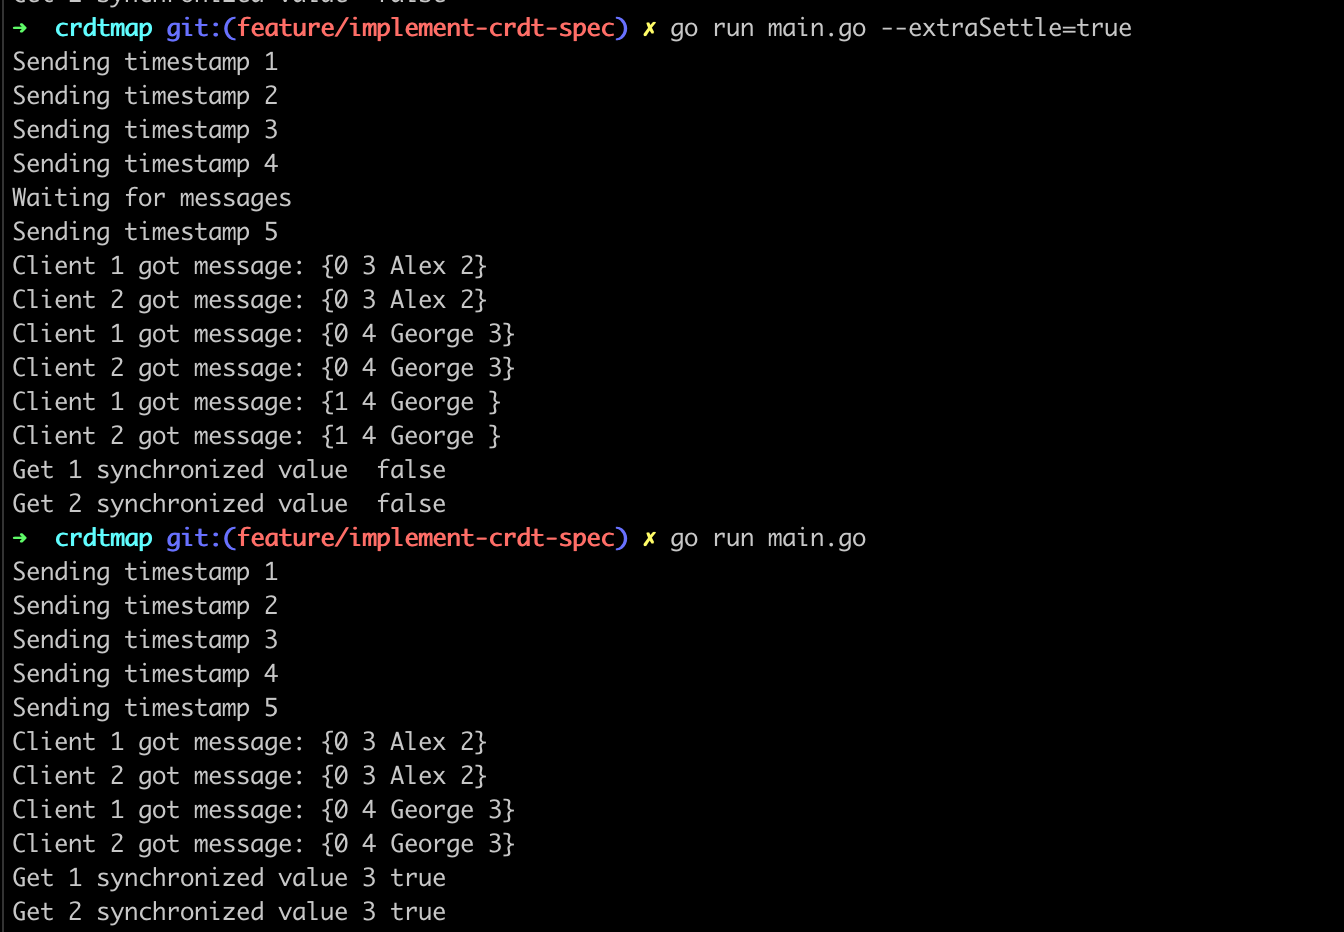
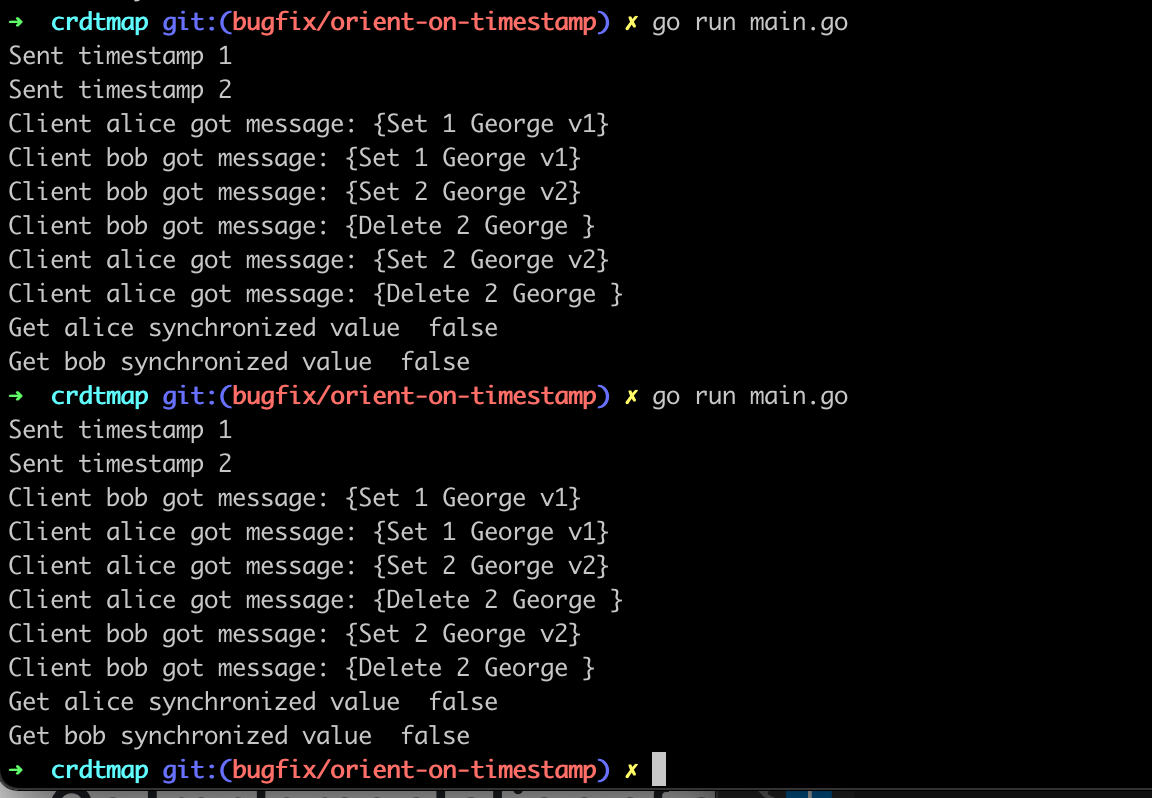
Updated API to take a timestamp when deleting.
- Added a test that demonstrates the eventually consistent property

Changed region(s): [[0.0, 0.0, 0.8438, 1.0], [0.6562, 0.9624, 0.75, 1.0]]

diff --git a/implementations/crdtmap/crdt/crdt.go b/implementations/crdtmap/crdt/crdt.go
@@ -15,11 +15,11 @@ type tValue struct {
 	v Value
 }
 
-type Verb int
+type Verb string
 
 const (
-	Set Verb = iota
-	Delete
+	Set    Verb = "Set"
+	Delete Verb = "Delete"
 )
 
 type broadcastRequest struct {
@@ -33,15 +33,15 @@ type mapCRDT struct {
 	values     map[Key][]tValue
 	timestamps chan Timestamp
 	publisher  *broker.Broker
-	clientId   int
+	clientId   string
 }
 
-func NewMapCRDT(lamportClock chan Timestamp, b *broker.Broker) (*mapCRDT, func()) {
+func NewMapCRDT(name string, lamportClock chan Timestamp, b *broker.Broker) (*mapCRDT, func()) {
 	m := &mapCRDT{
 		values:     make(map[Key][]tValue),
 		timestamps: lamportClock,
 		publisher:  b,
-		clientId:   int(<-lamportClock),
+		clientId:   name,
 	}
 	return m, func() {
 		m.broadcastListen(m.publisher.Subscribe())
@@ -52,7 +52,7 @@ func NewMapCRDT(lamportClock chan Timestamp, b *broker.Broker) (*mapCRDT, func()
 func (self *mapCRDT) broadcastListen(conn chan interface{}) {
 	for {
 		msg := <-conn
-		fmt.Printf("Client %d got message: %v\n", self.clientId, msg)
+		fmt.Printf("[%s]: %v\n", self.clientId, msg)
 
 		switch m := msg.(type) {
 		case broadcastRequest:
@@ -63,7 +63,7 @@ func (self *mapCRDT) broadcastListen(conn chan interface{}) {
 				self.deliveringDeleteByCausalBroadcast(m.t, m.k)
 			}
 		default:
-			fmt.Printf("Client %d got unknown message: %v\n", self.clientId, msg)
+			fmt.Printf("Client %s got unknown message: %v\n", self.clientId, msg)
 		}
 	}
 }
@@ -73,25 +73,27 @@ func (self *mapCRDT) broadcast(verb Verb, t Timestamp, k Key, v Value) {
 	self.publisher.Publish(request)
 }
 
-func (self *mapCRDT) RequestToReadValue(k Key) (Value, bool) {
-	entries := self.values[k]
-	if len(entries) > 0 {
-		return entries[len(entries)-1].v, true
+func (self *mapCRDT) RequestToReadValue(k Key) (Value, Timestamp, bool) {
+	entries, ok := self.values[k]
+	if ok {
+		return entries[len(entries)-1].v, entries[len(entries)-1].t, ok
 	}
-	return "", false
+	return "", -1, ok
 }
 
-func (self *mapCRDT) RequestToSetKey(k Key, v Value) {
+func (self *mapCRDT) RequestToSetKey(k Key, v Value) Timestamp {
 	t := <-self.timestamps
 	self.broadcast(Set, t, k, v)
+	return t
 }
 
-func forAllEntryYoungerThan(t Timestamp, previous []tValue) bool {
-	for _, prime := range previous {
-		if prime.t < t {
-			continue
+//isNewerThanAll implements the last write wins semantics. If the current timestamp is
+//greater than all current values, permit the write.
+func isNewerThanAll(t Timestamp, values []tValue) bool {
+	for _, v := range values {
+		if v.t > t {
+			return false
 		}
-		return false
 	}
 	return true
 }
@@ -99,22 +101,13 @@ func forAllEntryYoungerThan(t Timestamp, previous []tValue) bool {
 func (self *mapCRDT) deliveringSetByCausalBroadcast(t Timestamp, k Key, v Value) {
 	previous, ok := self.values[k]
 
-	if ok || forAllEntryYoungerThan(t, previous) {
+	if !ok || isNewerThanAll(t, previous) {
 		self.values[k] = []tValue{{t, v}}
 	}
 }
 
-func (self *mapCRDT) RequestToDeleteKey(k Key) {
-	entries, ok := self.values[k]
-	if ok { //This line is suspicious.
-		//I may have misunderstood the specification.
-		//Only delete if you have that key.
-		//It's possible the key is still propagating.
-		//In which case, we won't forward the delete.
-		for _, e := range entries {
-			self.broadcast(Delete, e.t, k, "")
-		}
-	}
+func (self *mapCRDT) RequestToDeleteKey(t Timestamp, k Key) {
+	self.broadcast(Delete, t, k, "")
 }
 
 func (self *mapCRDT) findIdxByTimestamp(t Timestamp, k Key) int {
@@ -136,6 +129,11 @@ func removeIndex(s []tValue, index int) []tValue {
 func (self *mapCRDT) deliveringDeleteByCausalBroadcast(t Timestamp, k Key) {
 	idx := self.findIdxByTimestamp(t, k)
 	if idx != -1 {
-		self.values[k] = removeIndex(self.values[k], idx)
+		newValues := removeIndex(self.values[k], idx)
+		if len(newValues) > 0 {
+			self.values[k] = newValues
+		} else {
+			delete(self.values, k)
+		}
 	}
 }

diff --git a/implementations/crdtmap/main.go b/implementations/crdtmap/main.go
@@ -16,14 +16,14 @@ var (
 func lamportClock(chan crdt.Timestamp) {
 	globalClock := 1
 	for {
-		fmt.Printf("Sending timestamp %d\n", globalClock)
 		clock <- crdt.Timestamp(globalClock)
+		fmt.Printf("Sent timestamp %d\n", globalClock)
 		globalClock = globalClock + 1
 	}
 }
 
 func main() {
-	extraSettle := flag.Bool("extraSettle", false, "Allow extra time between set and delete for messages to synchronize.")
+
 	flag.Parse()
 	// Create and start a broker:
 	b := broker.NewBroker()
@@ -32,35 +32,23 @@ func main() {
 	//Start the clock source
 	go lamportClock(clock)
 
-	m1, m1Listen := crdt.NewMapCRDT(clock, b)
-	m2, m2Listen := crdt.NewMapCRDT(clock, b)
-	//m3, m3Listen := crdt.NewMapCRDT(clock, b)
-	//m4, m4Listen := crdt.NewMapCRDT(clock, b)
+	alice, m1Listen := crdt.NewMapCRDT("alice", clock, b)
+	bob, m2Listen := crdt.NewMapCRDT("bob", clock, b)
 
 	go m1Listen()
 	go m2Listen()
-	//go m3Listen()
-	//go m4Listen()
 
-	m1.RequestToSetKey("Alex", "2")
-	m2.RequestToSetKey("George", "3")
-	if *extraSettle {
-		fmt.Println("Waiting for messages")
-		time.Sleep(2 * time.Second)
-	}
-	m2.RequestToDeleteKey("George")
-	//m3.RequestToSetKey("Sam", "4")
+	alice.RequestToSetKey("George", "v1")
+	t2 := bob.RequestToSetKey("George", "v2")
+	//bob.RequestToDeleteKey(georgeTimestamp, "George")
+	bob.RequestToDeleteKey(t2, "George")
 
 	time.Sleep(2 * time.Second)
 
-	v1, ok1 := m1.RequestToReadValue("George")
-	v2, ok2 := m2.RequestToReadValue("George")
-	//v3, _ := m3.RequestToReadValue("George")
-	//v4, _ := m4.RequestToReadValue("George")
+	v1, _, ok1 := alice.RequestToReadValue("George")
+	v2, _, ok2 := bob.RequestToReadValue("George")
 
-	fmt.Printf("Get 1 synchronized value %v %v\n", v1, ok1)
-	fmt.Printf("Get 2 synchronized value %v %v\n", v2, ok2)
-	//fmt.Printf("Get synchronized value %v \n", v3)
-	//fmt.Printf("Get synchronized value %v \n", v4)
+	fmt.Printf("Get alice synchronized value %v %v\n", v1, ok1)
+	fmt.Printf("Get bob synchronized value %v %v\n", v2, ok2)
 
 }

diff --git a/implementations/crdtmap/crdt_test.go b/implementations/crdtmap/crdt_test.go
@@ -1,0 +1,48 @@
+package main
+
+import (
+	"fmt"
+	"testing"
+	"time"
+
+	"github.com/JeremyLWright/specs/crdt/broker"
+	"github.com/JeremyLWright/specs/crdt/crdt"
+	"github.com/stretchr/testify/assert"
+)
+
+func testClock(tick int, clock chan crdt.Timestamp) {
+	for {
+		clock <- crdt.Timestamp(tick)
+		fmt.Printf("t=%d\n", tick)
+		tick = tick + 1
+	}
+}
+
+func TestEventuallyConsistent(t *testing.T) {
+
+	// Create and start a broker:
+	b := broker.NewBroker()
+	go b.Start()
+
+	//Start the clock source
+	clock = make(chan crdt.Timestamp)
+	go testClock(1, clock)
+
+	alice, m1Listen := crdt.NewMapCRDT("alice", clock, b)
+	bob, m2Listen := crdt.NewMapCRDT("bob", clock, b)
+
+	go m1Listen()
+	go m2Listen()
+
+	alice.RequestToSetKey("George", "v1")
+	t2 := bob.RequestToSetKey("George", "v2")
+	bob.RequestToDeleteKey(t2, "George")
+
+	time.Sleep(time.Millisecond)
+
+	_, _, ok1 := alice.RequestToReadValue("George")
+	_, _, ok2 := bob.RequestToReadValue("George")
+	assert.False(t, ok1, "Alice incorrectly had the value.")
+	assert.False(t, ok2, "Bob incorrectly had the value.")
+
+}

diff --git a/implementations/crdtmap/README.md b/implementations/crdtmap/README.md
@@ -8,6 +8,13 @@ This is a go implementation of a broken CRDT algorithm instigated by [Martin Kle
 $ go run main.go
 ```
 
+# Tests
+```
+$ go test -count 1000
+```
+
+
+
 # Example
 
 <img src="screenshots/execution-broken.png" width="50%">
